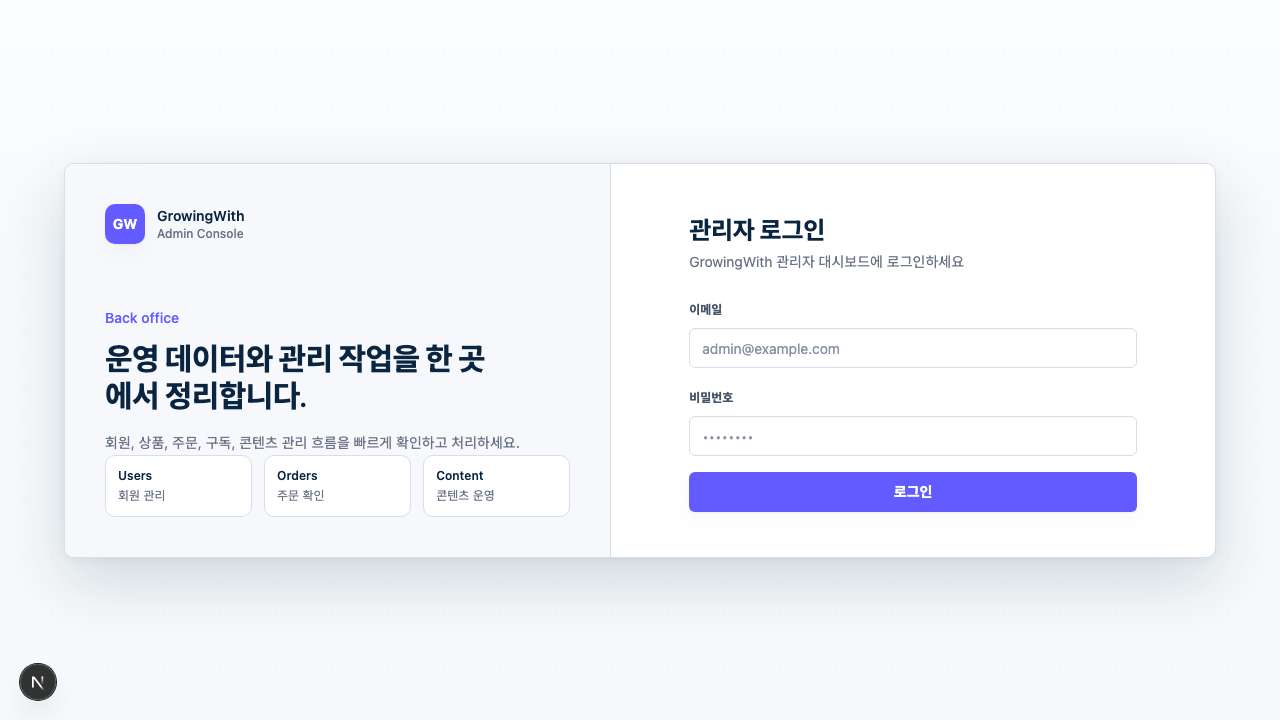
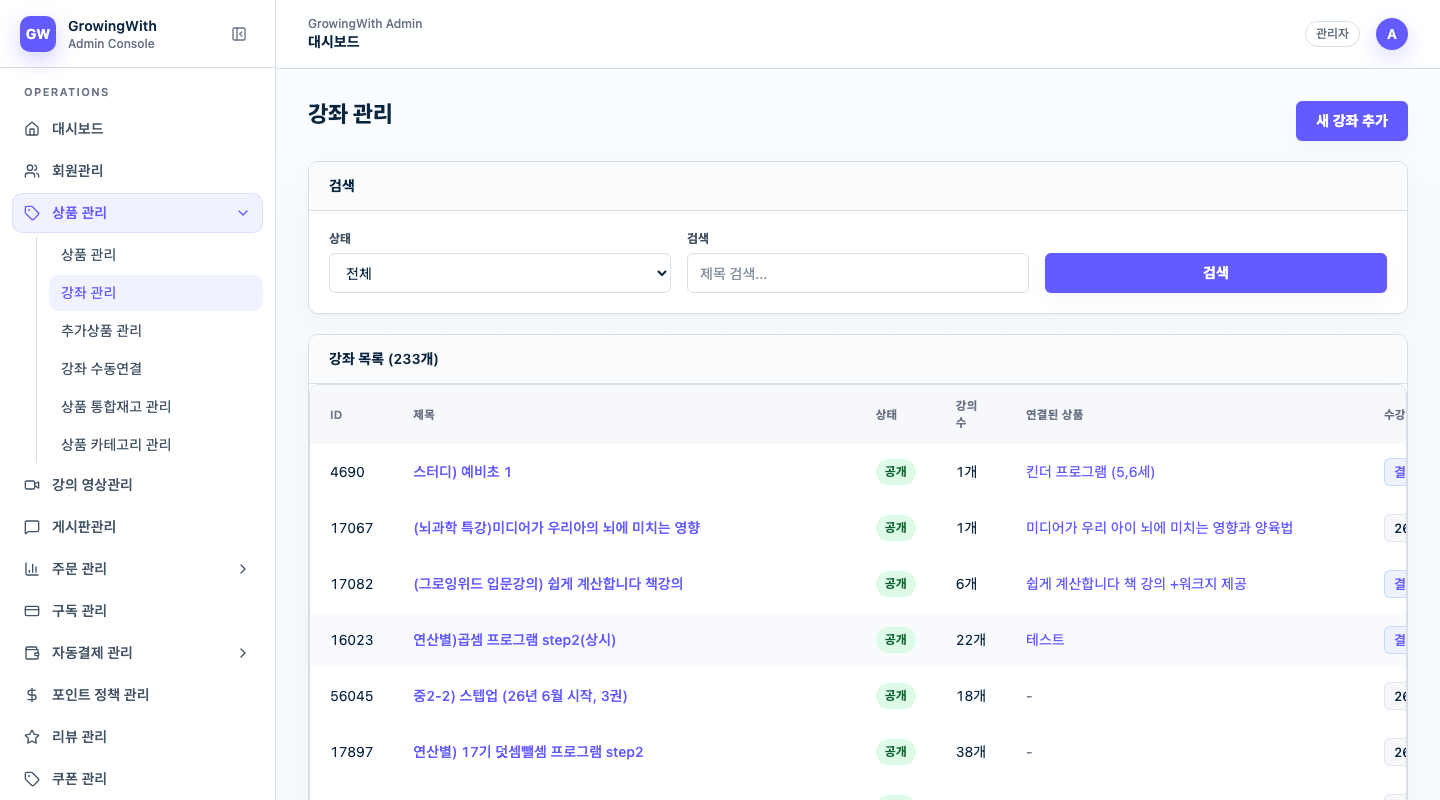
docs: 운영 화면 스크린샷 반영

diff --git a/README.md b/README.md
@@ -85,7 +85,7 @@
   <img src="assets/screenshots/education-platform-admin.png" alt="온라인 교육 플랫폼 관리자 로그인 화면" width="100%" />
 </p>
 
-<p align="center"><sub>교육·커머스 플랫폼의 운영 관리자 접근 화면</sub></p>
+<p align="center"><sub>교육·커머스 플랫폼의 강좌 운영·검색 화면</sub></p>
 
 #### 제이제이코드 수행 범위
 
@@ -134,7 +134,7 @@
   <img src="assets/screenshots/operations-management-system.png" alt="프로젝트 손익 및 세무 일정 운영 시스템 로그인 화면" width="100%" />
 </p>
 
-<p align="center"><sub>프로젝트·매출·세무 일정을 관리하는 운영 시스템 접근 화면</sub></p>
+<p align="center"><sub>프로젝트별 계약·입금·수익 현황을 관리하는 운영 화면</sub></p>
 
 #### 제이제이코드 수행 범위
 
